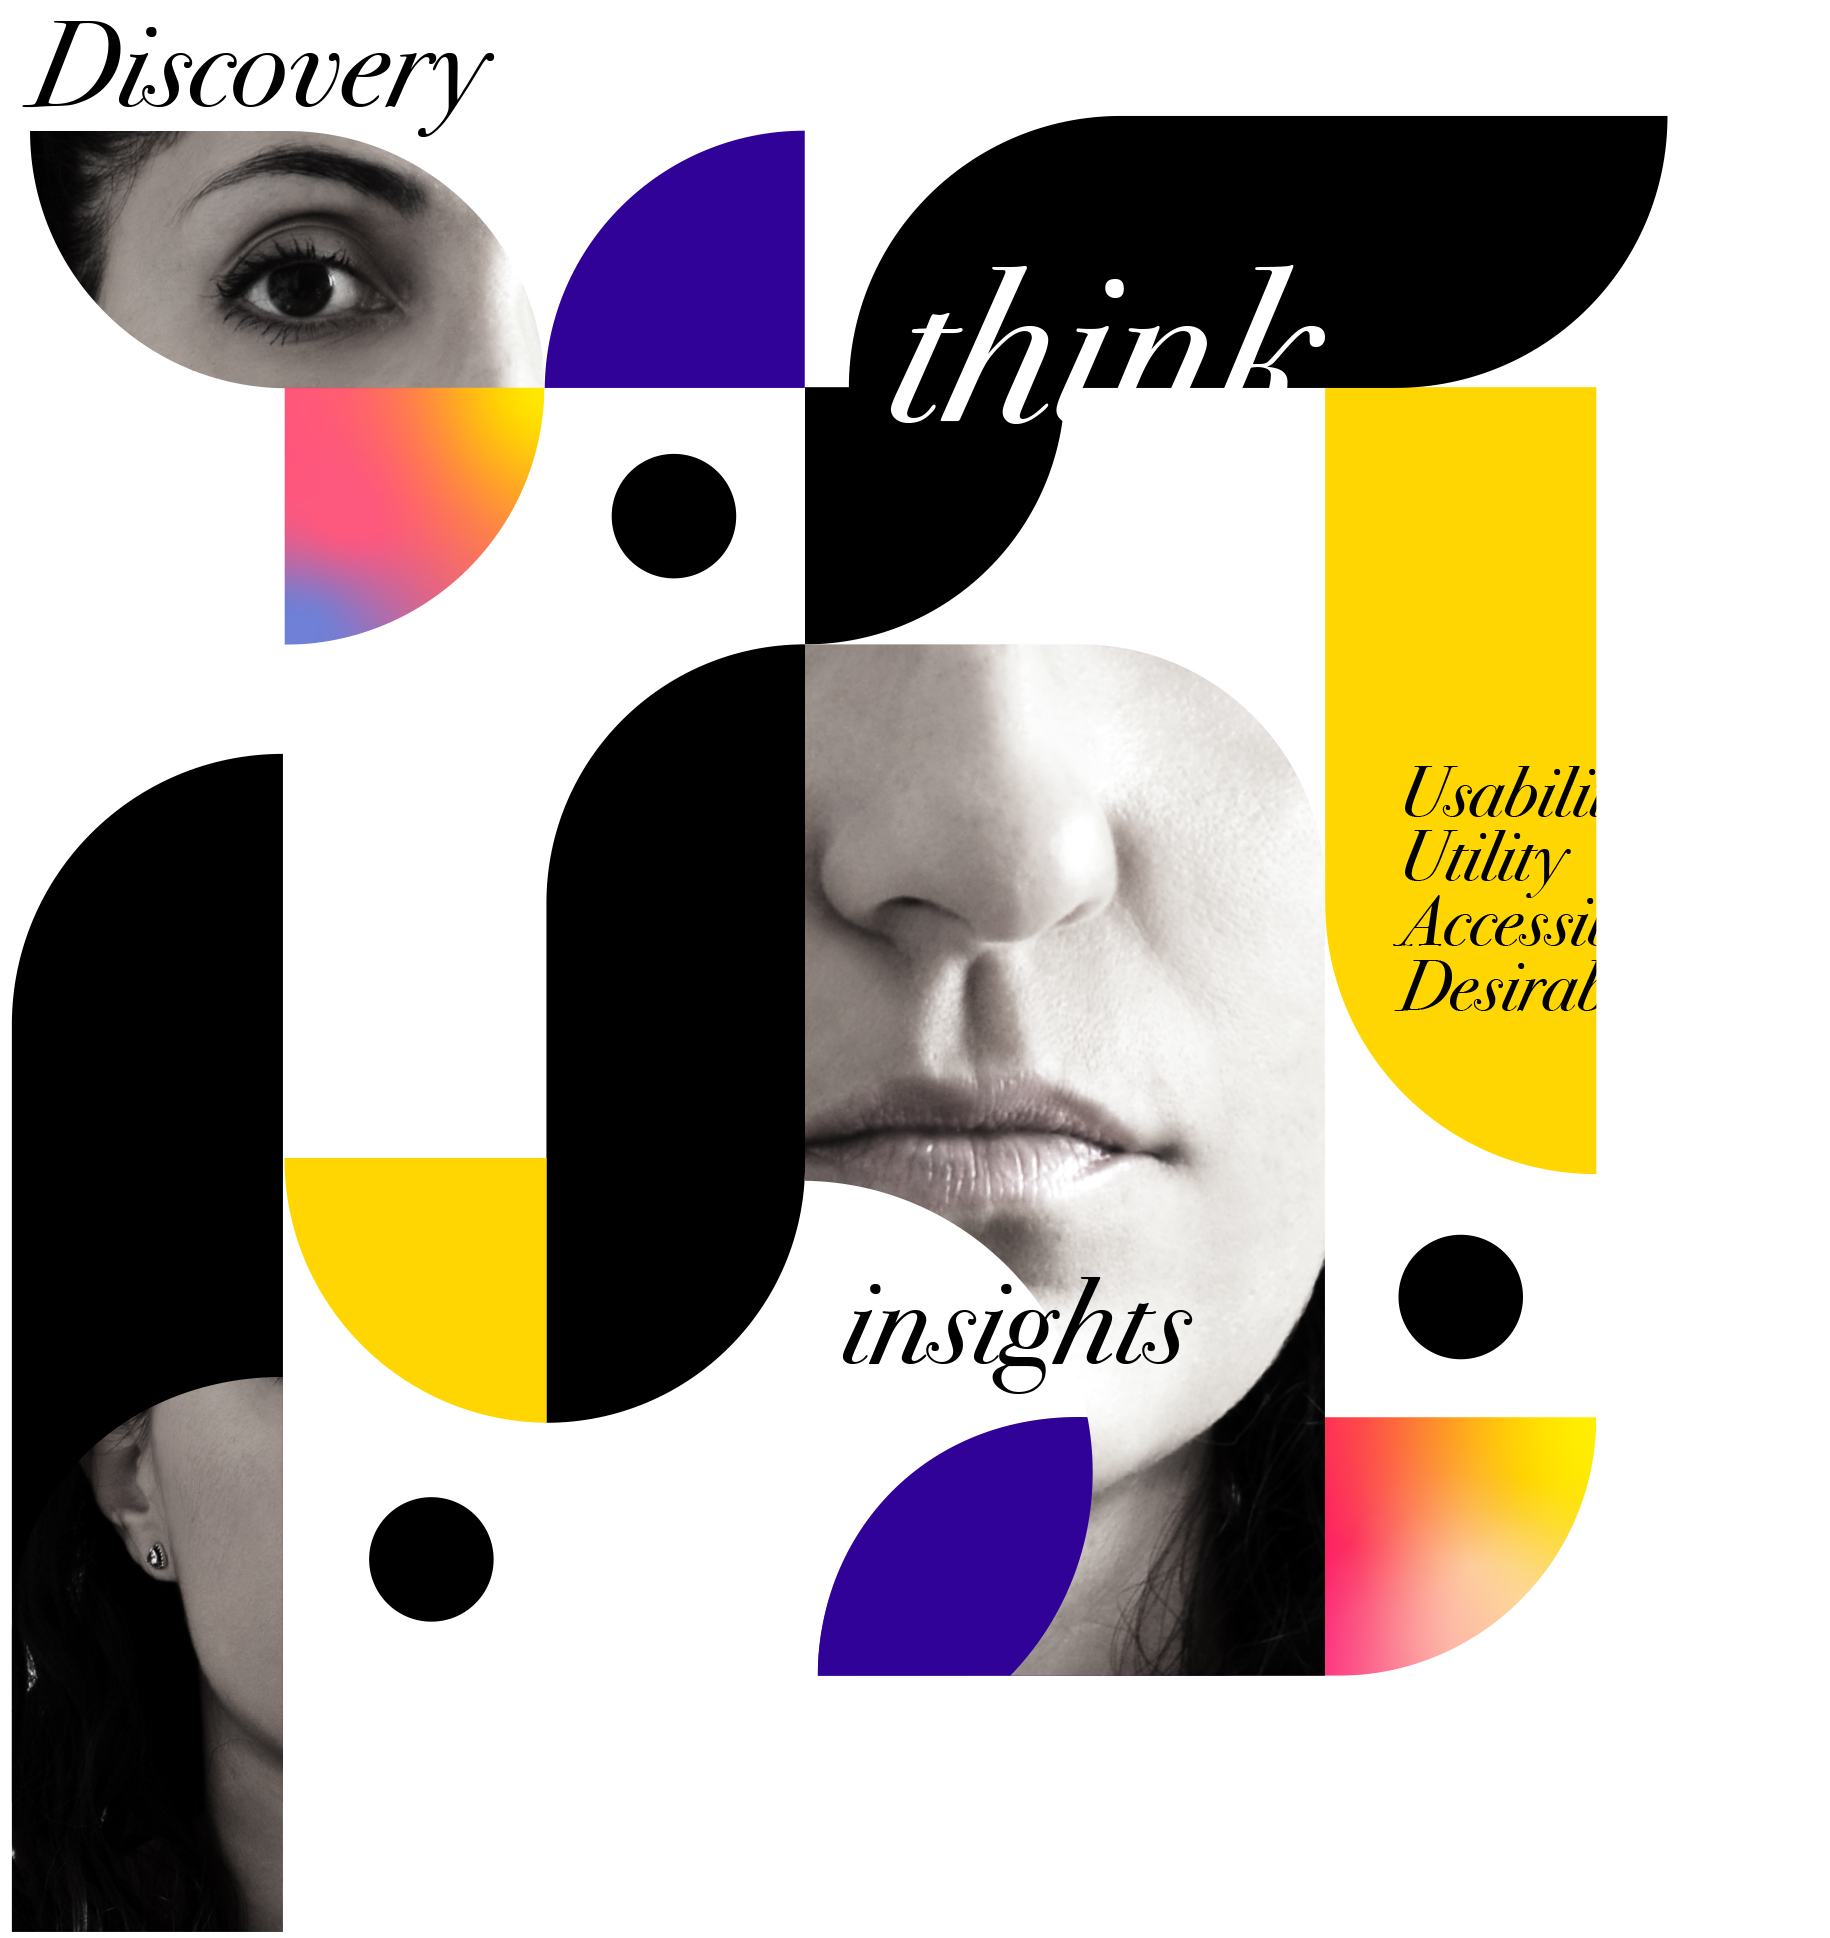
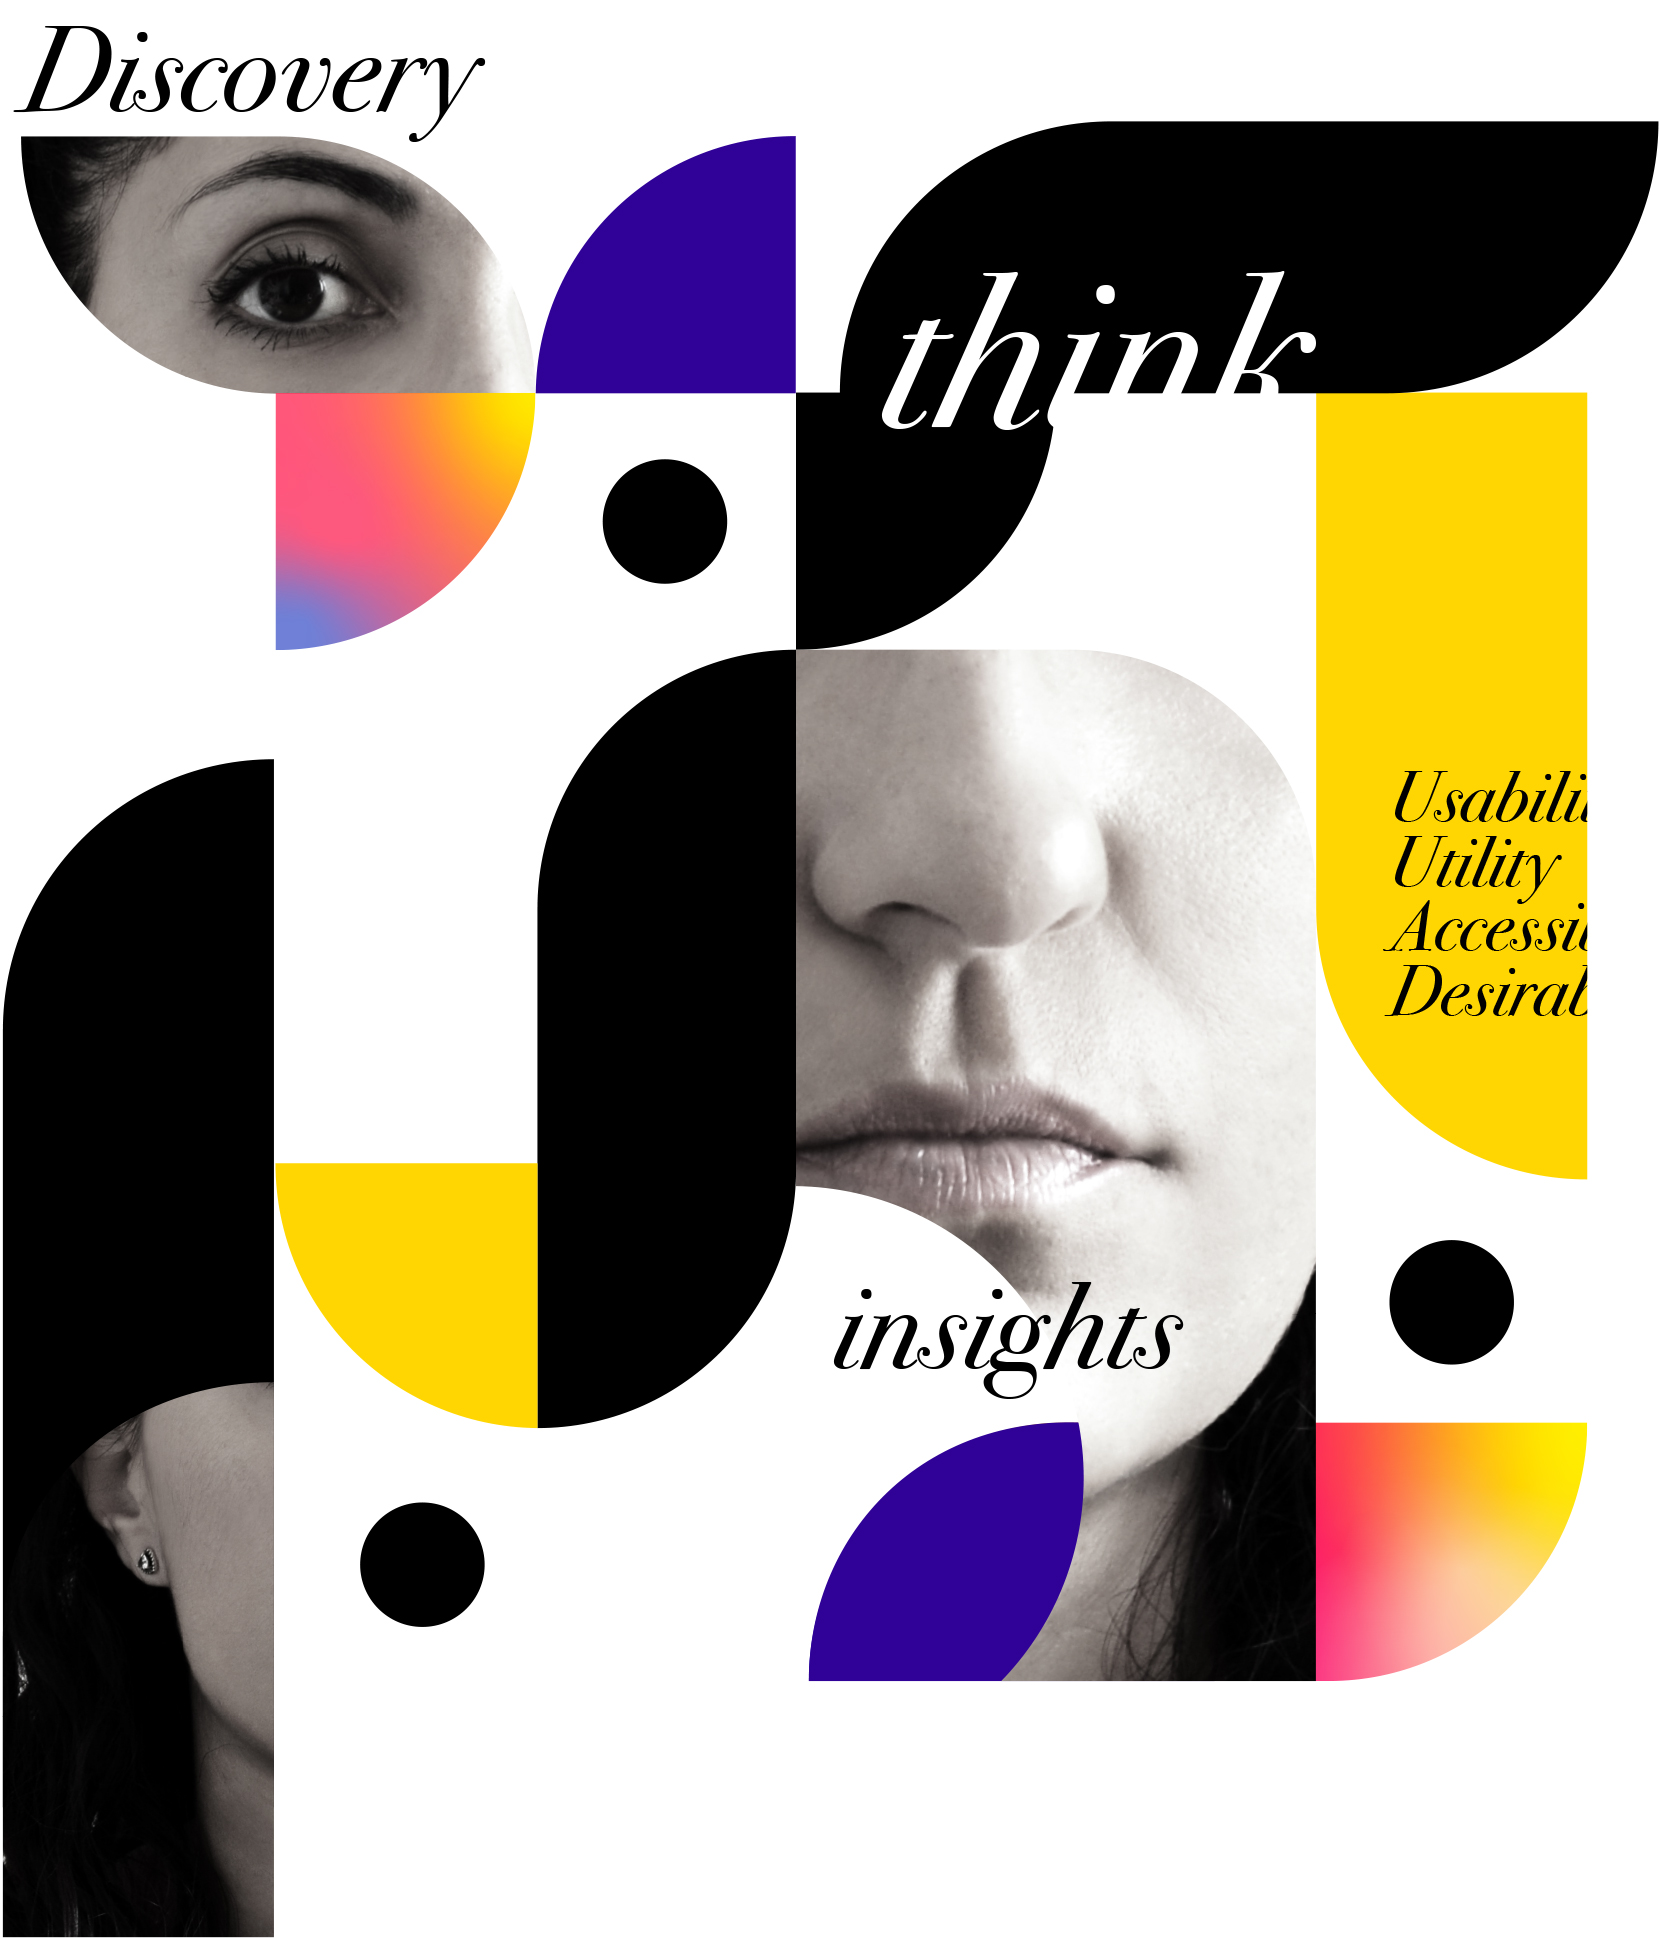
Riallineamento img e tags SEO
Immagine modificata in homepage

diff --git a/style/stile.css b/style/stile.css
@@ -157,7 +157,7 @@ a {
   font-size: 16px;
   font-family: 'Josefin Sans', sans-serif;
   font-weight: 400;
-  padding: 10px 20px;
+  padding: 0 !important;
   color: #292929;
   text-decoration: none;
 }
@@ -433,7 +433,7 @@ section {
       grid-template-columns: 1fr 1fr 1fr;
   -webkit-column-gap: 30px;
           column-gap: 30px;
-  background-color: #f8f8f8;
+  background-color: #eaeaea;
 }
 
 .item-ux-ui-prog {
@@ -443,7 +443,7 @@ section {
 
 .item-soft-skills {
   padding: 24px;
-  background-color: #f8f8f8;
+  background-color: #eaeaea;
 }
 
 .item-hard-skills ul {
@@ -460,7 +460,7 @@ section {
   height: 100%;
   padding: 80px 20%;
   text-align: center;
-  background-color: #f8f8f8;
+  background-color: #eaeaea;
 }
 
 .box-cont-services {
@@ -569,7 +569,7 @@ h3 .item-services {
   padding: 20px;
   border: 1px solid #eaeaea;
   border-radius: 4px;
-  background: #f8f8f8;
+  background: #eaeaea;
   color: gray;
 }
 
@@ -699,6 +699,7 @@ h2 {
   font-size: 24px;
   font-family: 'Bodoni Moda', serif;
   font-weight: 400;
+  /*italic regular*/
   font-style: italic;
   padding-bottom: 24px;
 }
@@ -1383,7 +1384,7 @@ p {
     padding: 80px 10% 80px 10%;
     width: 100%;
     text-align: center;
-    background-color: #f8f8f8;
+    background-color: #eaeaea;
   }
   .box-cont-services {
     /* Griglia cosa faccio - Servizi */
@@ -1429,7 +1430,7 @@ p {
 }
 
 /* Schermi grandi oltre 1280px */
-@media (min-width: 1280) {
+@media (min-width: 1280px) {
   header {
     height: 100px;
     width: 100%;
@@ -1545,7 +1546,7 @@ p {
     padding: 80px 10% 80px 10%;
     width: 100%;
     text-align: center;
-    background-color: #f8f8f8;
+    background-color: #eaeaea;
   }
   .box-cont-services {
     /* Griglia cosa faccio - Servizi */

diff --git a/index.html b/index.html
@@ -5,7 +5,31 @@
   <meta charset="UTF-8">
   <meta http-equiv="X-UA-Compatible" content="IE=edge">
   <meta name="viewport" content="width=device-width, initial-scale=1.0">
-  <title>Sara Denaro UX/UI Design</title>
+  <title>Sara Denaro &bull; UX/UI Designer</title>
+  <!-- Tags SEO -->
+  <meta name="description" content="Creo esperienze e interfacce digitali coinvolgenti ed intuitive 
+  mettendo al centro le esigenze delle persone." />
+  <link rel="canonical" href="https://saradenaro.github.io/sadesign-portfolio/" />
+
+
+  <!-- Open graph-->
+  <meta property="og:type" content="website" />
+  <meta property="og:title" content="Sara Denaro &bull; UX/UI Designer"/>
+  <meta property="og:description" content="Creo esperienze e interfacce digitali coinvolgenti ed intuitive 
+  mettendo al centro le esigenze delle persone."/>
+  <meta property="og:url" content="https://saradenaro.github.io/sadesign-portfolio/"/>
+
+  <meta property="og:image" content="https://saradenaro.github.io/sadesign-portfolio/images/image-opengraph.jpg" />
+  <meta property="og:image:width" content="1200" />
+  <meta property="og:image:height" content="627" />
+  <meta property="og:image:alt" content="A shiny red apple with a bite taken out" />
+  
+
+
+
+
+
+
 
   <!-- Favicon -->
   <link rel="icon" type="image/png" href="images/favicon.png">

diff --git a/style/stile.scss b/style/stile.scss
@@ -4,7 +4,6 @@
   $border-bg-gray-color: #eaeaea;
   $accent-color: #ffd602;
 
-
 * {
   margin: 0;
   padding: 0;
@@ -55,7 +54,7 @@ html::-webkit-scrollbar { /* Chrome */
 
 html::-webkit-scrollbar-track {  /* Chrome */
   background-color: white;
-  border: 1px solid $border-gray-color;
+  border: 1px solid #eaeaea;
 }
 
 html::-webkit-scrollbar-thumb {  /* Chrome */
@@ -130,7 +129,7 @@ min-width: 200px;
   font-size: 16px;
   font-family: 'Josefin Sans', sans-serif;
   font-weight: 400; 
-  padding: 10px 0;
+  padding: 0 !important;
   color: $text-black-color;
   text-decoration: none;
 }
@@ -299,7 +298,7 @@ section { /* SECTION DI BASE */
 .img-portfolio {
   width: 100%;
   border-radius: 8px;
-  border: 1px solid $border-gray-color;
+  border: 1px solid $border-bg-gray-color;
   transition: all .30s;
 }
 
@@ -498,7 +497,7 @@ h3 .item-services {
   width: 100%;
   height: 48px;
   padding: 20px;
-  border: 1px solid $border-gray-color;
+  border: 1px solid $border-bg-gray-color;
   border-radius: 4px;
   background: $border-bg-gray-color;
   color: gray;
